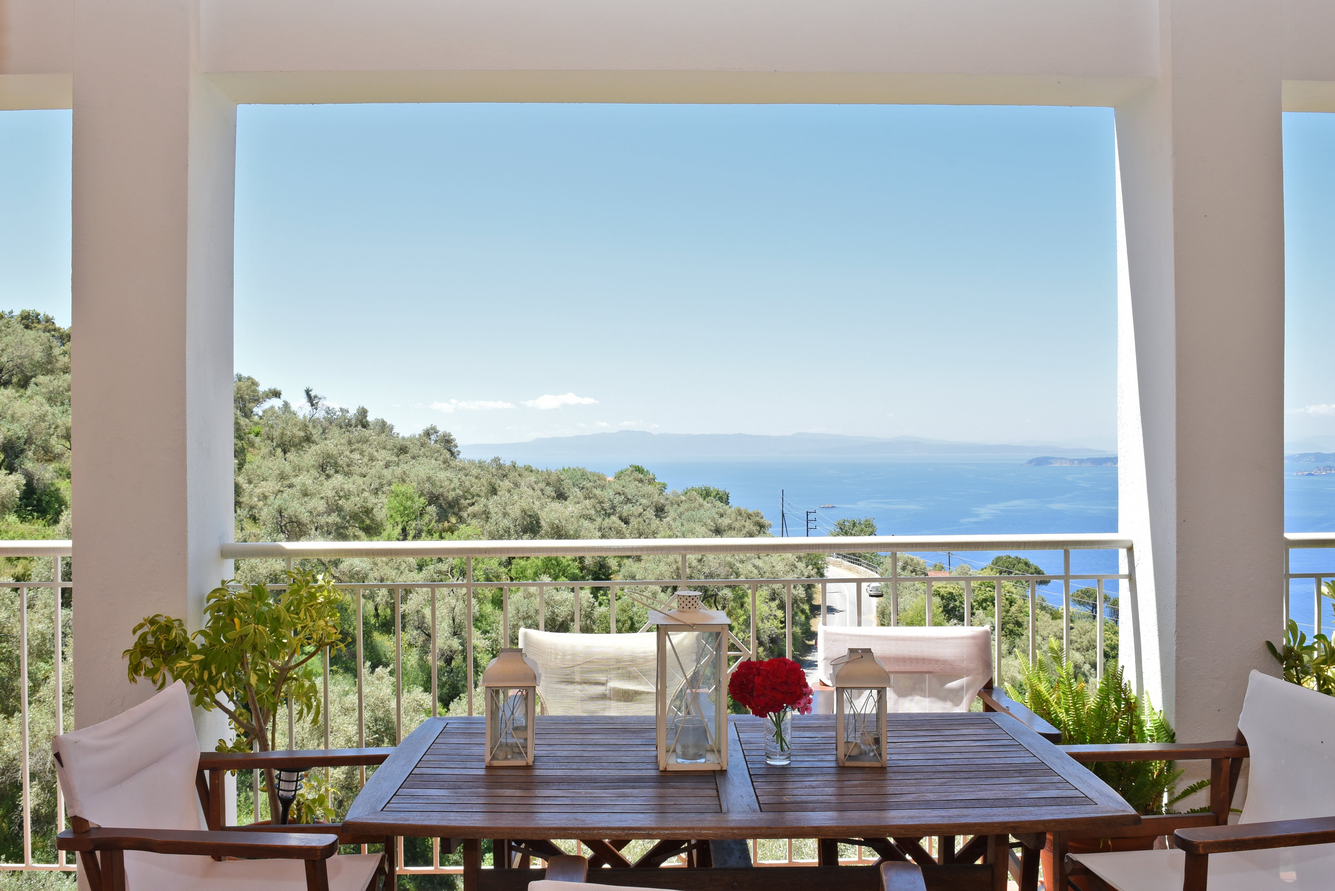
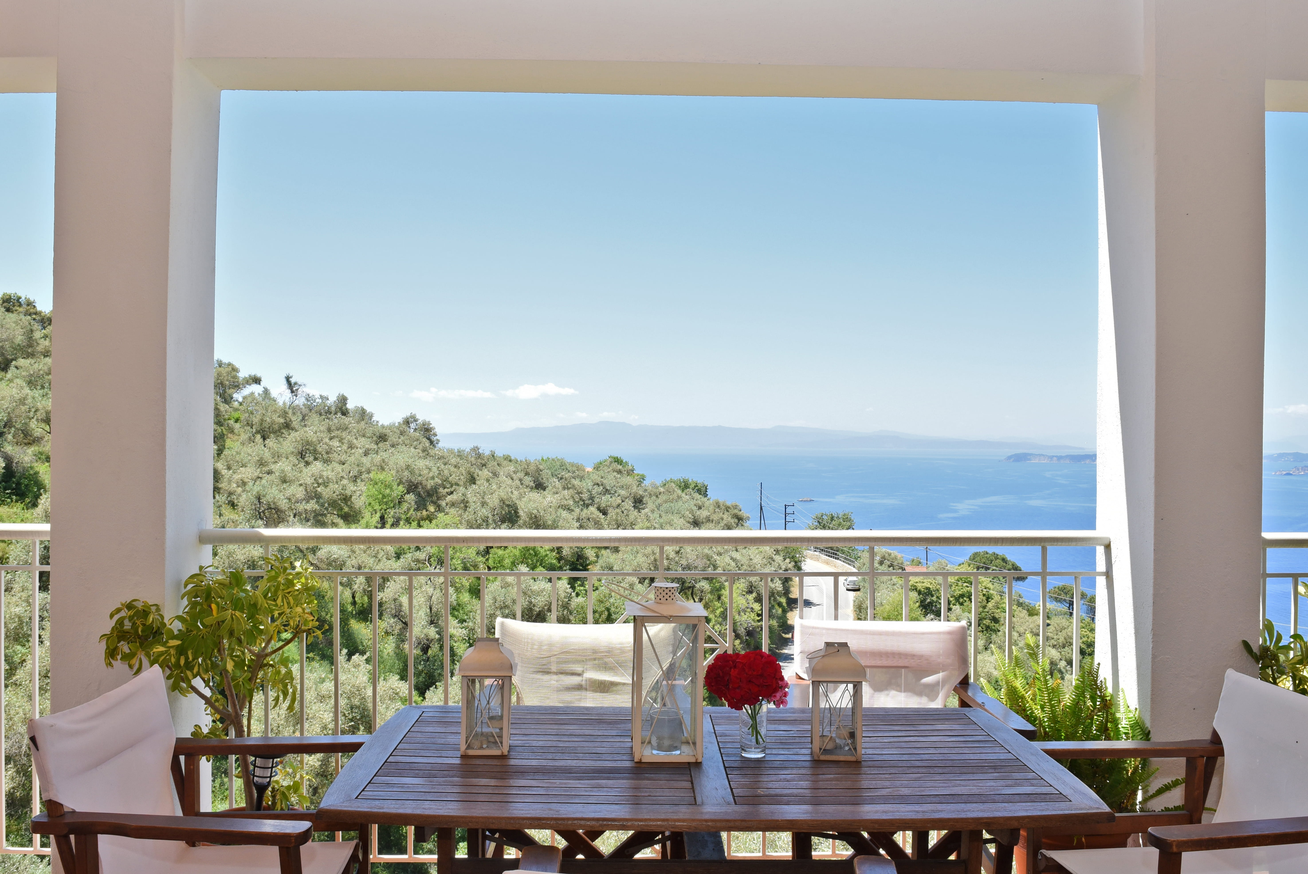
fixes

diff --git a/css/style.min.css b/css/style.min.css
@@ -1,1 +1,1 @@
-.body {margin: 0;font-family: sans-serif;}.navbar {top: 0;width: 100%;padding: 1vh 0vw;background-color: #2d3e50;box-shadow: 0px 0px 2px 1px rgba(0,0,0,0.3);position: sticky;z-index: 3;}.navMoreButLi {float: right;padding: 0px 54px;}.navMoreButI {color: #f5f5f5;}.navbar li {display: inline;}.navbarLi {padding: 14px 18px;}.navLogo {text-decoration: none;color: #f5f5f5;font-size: 20px;font-weight: 400;}.navTextMd {text-decoration: none;color: #d0d0d0;}.navDivSm {padding: 14px;}.navTextSm {text-decoration: none;color: #d0d0d0;padding-left: 40px;}.conImg {height: 90vh;background-image: url("../img/main.jpg");background-attachment: fixed !important;background-position: center;background-repeat: no-repeat;background-size: cover;}.mainLogo {left: 0;right: 0;bottom: 0;top: 0;height: 50%;width: 50%;margin: auto;position: absolute;text-align: center;position: fixed;z-index: 1;}.boxLogo {background-color: #ffffffb0;color: #0075c3;font-weight: 700;font-size: calc(10px + 2.5vw);;border: 3px solid #fff;border-radius: 5px;padding: 5vh 2vw;}.secTextLogo {color: #ffffff;opacity: 0.8;font-weight: bold;font-size: 16px;padding: 4vh 0;text-shadow: 1px 1px 2px black, 0 0 1em #0075c3, 0 0 0.2em white;}.buttonLogo {color: #0075c3;background: #fff;border-radius: 5px;font-size: 120%;padding: 1.2vh 1vw;width: 25%;cursor: pointer;margin: auto;}.container {z-index: 2;position: relative;text-align: center;padding: 5vh 3vw;}.conWhite {background-color: white;}.conBlue {background-color: #2d3e50;}.conTitle {font-weight: 400;letter-spacing: .1em;}.whTitle {color: #34495e;}.blTitle {color: white;}.whText {color:#6a7171;line-height: 1.7em;}.blText {color: #d0d0d0;}.chip {display: inline-block;padding: 18px 25px;margin: 4px;font-size: 16px;border-radius: 25px;background-color: #f1f1f1;color: #4b5252;}.whSubTitle {color:#0075c3;}.showMoreSerBut {color: #0077c5;text-decoration: underline;cursor: pointer;}.serBox {text-align: left;}.slides {display: none;}.slides > img {position: relative;width: 100%;height: auto;top: 50%;transform: translateY(-50%);object-fit: contain;transition: .4s;}img {vertical-align: middle;}.imagesTab > .main {position: relative;margin: auto;height: calc(80vh - 70px);background-color: #2d3e50;}.imagesTab > .main > .arrow_left, .imagesTab > .main > .arrow_right {position: absolute;display: block;top: 50%;transform: translateY(-50%);padding: 8px;background-color: rgba(0, 0, 0, 0.8);color: rgb(180, 180, 180);font-size: 2em;cursor: pointer;transition: 0.4s;z-index: 3;}.imagesTab > .main > .arrow_left:hover, .imagesTab > .main > .arrow_right:hover {background-color: rgba(0, 0, 0, 0.9);color: rgb(220, 220, 220);}.imagesTab > .main > .arrow_left {left: 0;border-radius: 0 3px 3px 0;}.imagesTab > .main > .arrow_right {right: 0;border-radius: 3px 0 0 3px;}.imagesTab > .main > .img {width: 100%;height: 100%;}.imagesTab > .main > .img > .real_img {width: 100%;height: 100%;text-align: center;z-index: 2;}.imagesTab > .main > .img > .real_img img {position: relative;width: 100%;height: auto;max-height: 100%;top: 50%;transform: translateY(-50%);object-fit: contain;transition: 0.4s;}.imagesTab > .main > .img > .description {position: absolute;left: 50%;transform: translateX(-50%);bottom: 0;width: 100%;font-size: 1.15em;text-align: center;background-color: rgba(40, 40, 40, 0.75);transition: 0.2s;}.imagesTab > .main > .img > .description.titleOn {padding: 8px 0;}.mapTab > .map {margin: auto;height: calc(80vh - 70px);}.mapTab > .map > iframe {width: 100%;height: 100%;}.contactTitle {letter-spacing: 1px;font-weight: normal;}.contactText {font-weight:bold;color:#34495e;font-size: 19px;}.footer {z-index: 2;position: relative;text-align: center;padding: 1vh 0vw;color: #d0d0d0;font-size: 15px;line-height: 30px;}.creator {color: #d0d0d0;}.button {cursor: pointer;}.navMoreButLi {display: none !important;}.navButSm {display: none;}@media (max-width: 1000px) {.navBut {display: none;}.navMoreButLi {display: block !important;}.mainLogo {width: 90%;}.buttonLogo {width: 35%;}}
+.body {margin: 0;font-family: sans-serif;}.navbar {top: 0;width: 100%;padding: 1vh 0vw;background-color: #2d3e50;box-shadow: 0px 0px 2px 1px rgba(0,0,0,0.3);position: sticky;z-index: 3;}.navMoreButLi {float: right;padding: 0px 54px;}.navMoreButI {color: #f5f5f5;}.navbar li {display: inline;}.navbarLi {padding: 14px 18px;}.navLogo {text-decoration: none;color: #f5f5f5;font-size: 20px;font-weight: 400;}.navTextMd {text-decoration: none;color: #d0d0d0;}.navDivSm {padding: 14px;}.navTextSm {text-decoration: none;color: #d0d0d0;padding-left: 40px;}.conImg {height: 90vh;background-image: url("../img/main.jpg");background-attachment: fixed !important;background-position: bottom;background-repeat: no-repeat;background-size: cover;}.mainLogo {left: 0;right: 0;bottom: 0;top: 0;height: 50%;width: 50%;margin: auto;position: absolute;text-align: center;position: fixed;z-index: 1;}.boxLogo {background-color: #ffffffb0;color: #0075c3;font-weight: 700;font-size: calc(10px + 2.5vw);;border: 3px solid #fff;border-radius: 5px;padding: 5vh 2vw;}.secTextLogo {color: #ffffff;opacity: 0.8;font-weight: bold;font-size: 16px;padding: 4vh 0;text-shadow: 1px 1px 2px black, 0 0 1em #0075c3, 0 0 0.2em white;}.buttonLogo {color: #0075c3;background: #fff;border-radius: 5px;font-size: 120%;padding: 1.2vh 1vw;width: 25%;cursor: pointer;margin: auto;}.container {z-index: 2;position: relative;text-align: center;padding: 5vh 3vw;}.conWhite {background-color: white;}.conBlue {background-color: #2d3e50;}.conTitle {font-weight: 400;letter-spacing: .1em;}.whTitle {color: #34495e;}.blTitle {color: white;}.whText {color:#6a7171;line-height: 1.7em;}.blText {color: #d0d0d0;}.chip {display: inline-block;padding: 18px 25px;margin: 4px;font-size: 16px;border-radius: 25px;background-color: #f1f1f1;color: #4b5252;}.whSubTitle {color:#0075c3;}.showMoreSerBut {color: #0077c5;text-decoration: underline;cursor: pointer;}.serBox {text-align: left;}.slides {display: none;}.slides > img {position: relative;width: 100%;height: auto;top: 50%;transform: translateY(-50%);object-fit: contain;transition: .4s;}img {vertical-align: middle;}.imagesTab > .main {position: relative;margin: auto;height: calc(80vh - 70px);background-color: #2d3e50;}.imagesTab > .main > .arrow_left, .imagesTab > .main > .arrow_right {position: absolute;display: block;top: 50%;transform: translateY(-50%);padding: 8px;background-color: rgba(0, 0, 0, 0.8);color: rgba(255, 255, 255, 0.8);font-size: 2em;cursor: pointer;transition: 0.4s;z-index: 3;}.imagesTab > .main > .arrow_left:hover, .imagesTab > .main > .arrow_right:hover {background-color: rgba(0, 0, 0, 0.9);color: rgba(255, 255, 255, 1.0);}.imagesTab > .main > .arrow_left {left: 0;border-radius: 0 3px 3px 0;}.imagesTab > .main > .arrow_right {right: 0;border-radius: 3px 0 0 3px;}.imagesTab > .main > .img {width: 100%;height: 100%;}.imagesTab > .main > .img > .real_img {width: 100%;height: 100%;text-align: center;z-index: 2;}.imagesTab > .main > .img > .real_img img {position: relative;width: 100%;height: auto;max-height: 100%;top: 50%;transform: translateY(-50%);object-fit: contain;transition: 0.4s;}.imagesTab > .main > .img > .description {position: absolute;left: 50%;transform: translateX(-50%);bottom: 0;width: 100%;font-size: 1.15em;text-align: center;background-color: rgba(40, 40, 40, 0.75);transition: 0.2s;}.imagesTab > .main > .img > .description.titleOn {padding: 8px 0;}.mapTab > .map {margin: auto;height: calc(80vh - 70px);}.mapTab > .map > iframe {width: 100%;height: 100%;}.contactTitle {letter-spacing: 1px;font-weight: normal;}.contactText {font-weight:bold;color:#34495e;font-size: 19px;}.footer {z-index: 2;position: relative;text-align: center;padding: 1vh 0vw;color: #d0d0d0;font-size: 15px;line-height: 30px;}.creator {color: #d0d0d0;}.button {cursor: pointer;}.navMoreButLi {display: none !important;}.navButSm {display: none;}@media (max-width: 1000px) {.navBut {display: none;}.navMoreButLi {display: block !important;}.mainLogo {width: 90%;}.buttonLogo {width: 35%;}}

diff --git a/js/main.min.js b/js/main.min.js
@@ -1,1 +1,1 @@
-function resizeObjects(){$(".conImg").css("height",$(window).height()-$(".navbar").outerHeight())}$(document).ready((function(){resizeObjects(),imageSliderGoTo(imageSliderIndex)})),$(window).resize(resizeObjects),$("#buttonFindMore").click((function(){$("html, body").stop(!0,!1).animate({scrollTop:$("#services").offset().top-$("#navbar").height()},1e3)})),$("#buttonLogo").stop(!0,!1).click((function(){$("html, body").stop(!0,!1).animate({scrollTop:$("#conImg").offset().top},1e3)})),$("#buttonServices, #buttonServicesSm").click((function(){$("html, body").stop(!0,!1).animate({scrollTop:$("#services").offset().top-$("#navbar").height()},1e3)})),$("#buttonDescription, #buttonDescriptionSm").click((function(){$("html, body").stop(!0,!1).animate({scrollTop:$("#description").offset().top-$("#navbar").height()},1e3)})),$("#buttonImages, #buttonImagesSm").click((function(){$("html, body").stop(!0,!1).animate({scrollTop:$("#images").offset().top-$("#navbar").height()},1e3)})),$("#buttonMap, #buttonMapSm").click((function(){$("html, body").stop(!0,!1).animate({scrollTop:$("#map").offset().top-$("#navbar").height()},1e3)})),$("#buttonContact, #buttonContactSm").click((function(){$("html, body").stop(!0,!1).animate({scrollTop:$("#contact").offset().top-$("#navbar").height()},1e3)})),$("#servicesMoreButton").click((function(){var o=$(this),e=$("#servicesToHide"),t=o.text();e.toggle(1e3),t="Show More"===t?"Show Less":"Show More",o.text(t)})),$("#descriptionMoreButton").click((function(){var o=$(this),e=$("#descriptionToHide"),t=o.text();e.toggle(1e3),t="Show More"===t?"Show Less":"Show More",o.text(t)}));var navbarIsOpen=!1;function openNavBar(){$(".navButSm").toggle(1e3)}var maxWidth=window.matchMedia("(max-width: 1000px)");function myFunction(o){o.matches||$(".navButSm").hide()}myFunction(maxWidth),maxWidth.addListener(myFunction);let imageSliderIndex=0,imageSliderData={images:["img/HousePhotos/house1.jpg","img/HousePhotos/house2.jpg","img/HousePhotos/house3.jpg","img/HousePhotos/house4.jpg","img/HousePhotos/house5.jpg","img/HousePhotos/house6.jpg","img/HousePhotos/house7.jpg","img/HousePhotos/house8.jpg","img/HousePhotos/house9.jpg","img/HousePhotos/house10.jpg","img/HousePhotos/house11.jpg","img/HousePhotos/house12.jpg","img/HousePhotos/house13.jpg","img/HousePhotos/house14.jpg","img/HousePhotos/house15.jpg","img/HousePhotos/house16.jpg","img/HousePhotos/house17.jpg","img/HousePhotos/house18.jpg","img/HousePhotos/house19.jpg","img/HousePhotos/house20.jpg","img/HousePhotos/house21.jpg","img/HousePhotos/house22.jpg","img/HousePhotos/house23.jpg","img/HousePhotos/house24.jpg","img/HousePhotos/house25.jpg","img/HousePhotos/house26.jpg"]};function imageSliderAdd(o){imageSliderIndex+=o,imageSliderIndex>imageSliderData.images.length-1?imageSliderIndex%=imageSliderData.images.length:imageSliderIndex<0&&(imageSliderIndex=Math.abs(imageSliderIndex+imageSliderData.images.length)%imageSliderData.images.length),imageSliderGoTo(imageSliderIndex)}function imageSliderGoTo(o){o>imageSliderData.images.length?o=imageSliderData.images.length:o<0&&(o=0),imageSliderIndex=o;let e=$("#imagesTab_img");e&&e.stop(!0,!1).animate({opacity:-1},200,(function(){e.attr("src",imageSliderData.images[o]),e.stop(!0,!1).animate({opacity:1},200)}))}
+function resizeObjects(){$(".conImg").css("height",$(window).height()-$(".navbar").outerHeight())}function openNavBar(o=!1){!0===o?$(".navButSm").stop(!0,!1).hide(500):$(".navButSm").stop(!0,!1).toggle(500)}$(document).ready((function(){resizeObjects(),imageSliderGoTo(imageSliderIndex)})),$(window).resize(resizeObjects),$("#buttonFindMore").click((function(){openNavBar(!0),$("html, body").stop(!0,!1).animate({scrollTop:$("#services").offset().top-$("#navbar").height()},500)})),$("#buttonLogo").stop(!0,!1).click((function(){openNavBar(!0),$("html, body").stop(!0,!1).animate({scrollTop:$("#conImg").offset().top},500)})),$("#buttonServices, #buttonServicesSm").click((function(){openNavBar(!0),$("html, body").stop(!0,!1).animate({scrollTop:$("#services").offset().top-$("#navbar").height()},500)})),$("#buttonDescription, #buttonDescriptionSm").click((function(){openNavBar(!0),$("html, body").stop(!0,!1).animate({scrollTop:$("#description").offset().top-$("#navbar").height()},500)})),$("#buttonImages, #buttonImagesSm").click((function(){openNavBar(!0),$("html, body").stop(!0,!1).animate({scrollTop:$("#images").offset().top-$("#navbar").height()},500)})),$("#buttonMap, #buttonMapSm").click((function(){openNavBar(!0),$("html, body").stop(!0,!1).animate({scrollTop:$("#map").offset().top-$("#navbar").height()},500)})),$("#buttonContact, #buttonContactSm").click((function(){openNavBar(!0),$("html, body").stop(!0,!1).animate({scrollTop:$("#contact").offset().top-$("#navbar").height()},500)})),$("#servicesMoreButton").click((function(){let o=$(this),e=$("#servicesToHide"),t=o.text();e.toggle(500),t="Show More"===t?"Show Less":"Show More",o.text(t)})),$("#descriptionMoreButton").click((function(){let o=$(this),e=$("#descriptionToHide"),t=o.text();e.toggle(500),t="Show More"===t?"Show Less":"Show More",o.text(t)}));let maxWidth=window.matchMedia("(max-width: 1000px)");function myFunction(o){o.matches||$(".navButSm").hide()}myFunction(maxWidth),maxWidth.addListener(myFunction);let imageSliderIndex=0,imageSliderData={images:["img/HousePhotos/house1.jpg","img/HousePhotos/house2.jpg","img/HousePhotos/house3.jpg","img/HousePhotos/house4.jpg","img/HousePhotos/house5.jpg","img/HousePhotos/house6.jpg","img/HousePhotos/house7.jpg","img/HousePhotos/house8.jpg","img/HousePhotos/house9.jpg","img/HousePhotos/house10.jpg","img/HousePhotos/house11.jpg","img/HousePhotos/house12.jpg","img/HousePhotos/house13.jpg","img/HousePhotos/house14.jpg","img/HousePhotos/house15.jpg","img/HousePhotos/house16.jpg","img/HousePhotos/house17.jpg","img/HousePhotos/house18.jpg","img/HousePhotos/house19.jpg","img/HousePhotos/house20.jpg","img/HousePhotos/house21.jpg","img/HousePhotos/house22.jpg","img/HousePhotos/house23.jpg","img/HousePhotos/house24.jpg","img/HousePhotos/house25.jpg","img/HousePhotos/house26.jpg"]};function imageSliderAdd(o){imageSliderIndex+=o,imageSliderIndex>imageSliderData.images.length-1?imageSliderIndex%=imageSliderData.images.length:imageSliderIndex<0&&(imageSliderIndex=Math.abs(imageSliderIndex+imageSliderData.images.length)%imageSliderData.images.length),imageSliderGoTo(imageSliderIndex)}function imageSliderGoTo(o){o>imageSliderData.images.length?o=imageSliderData.images.length:o<0&&(o=0),imageSliderIndex=o;let e=$("#imagesTab_img");e&&e.stop(!0,!1).animate({opacity:-1},200,(function(){e.attr("src",imageSliderData.images[o]),e.stop(!0,!1).animate({opacity:1},200)}))}

diff --git a/js/main.js b/js/main.js
@@ -10,53 +10,67 @@ function resizeObjects() {
 }
 
 $("#buttonFindMore").click(function() {
+    openNavBar(true);
+    
     $('html, body').stop(true, false).animate({
         scrollTop: $("#services").offset().top-$("#navbar").height()
-    }, 1000);
+    }, 500);
 });
 
 $("#buttonLogo").stop(true, false).click(function() {
+    openNavBar(true);
+    
     $('html, body').stop(true, false).animate({
         scrollTop: $("#conImg").offset().top
-    }, 1000);
+    }, 500);
 });
 
 $("#buttonServices, #buttonServicesSm").click(function() {
+    openNavBar(true);
+    
     $('html, body').stop(true, false).animate({
         scrollTop: $("#services").offset().top-$("#navbar").height()
-    }, 1000);
+    }, 500);
 });
 
 $("#buttonDescription, #buttonDescriptionSm").click(function() {
+    openNavBar(true);
+    
     $('html, body').stop(true, false).animate({
         scrollTop: $("#description").offset().top-$("#navbar").height()
-    }, 1000);
+    }, 500);
 });
 
 $("#buttonImages, #buttonImagesSm").click(function() {
+    openNavBar(true);
+    
     $('html, body').stop(true, false).animate({
         scrollTop: $("#images").offset().top-$("#navbar").height()
-    }, 1000);
+    }, 500);
 });
 
 $("#buttonMap, #buttonMapSm").click(function() {
+    openNavBar(true);
+    
     $('html, body').stop(true, false).animate({
         scrollTop: $("#map").offset().top-$("#navbar").height()
-    }, 1000);
+    }, 500);
 });
 
 $("#buttonContact, #buttonContactSm").click(function() {
+    openNavBar(true);
+    
     $('html, body').stop(true, false).animate({
         scrollTop: $("#contact").offset().top-$("#navbar").height()
-    }, 1000);
+    }, 500);
 });
 
 $("#servicesMoreButton").click(function() {
-    var $this = $(this); 
-    var $content = $("#servicesToHide");
-    var linkText = $this.text();
+    let $this = $(this); 
+    let $content = $("#servicesToHide");
+    let linkText = $this.text();
 
-    $content.toggle(1000);
+    $content.toggle(500);
 
     if(linkText === "Show More"){
         linkText = "Show Less";
@@ -68,11 +82,11 @@ $("#servicesMoreButton").click(function() {
 });
 
 $("#descriptionMoreButton").click(function() {
-    var $this = $(this); 
-    var $content = $("#descriptionToHide");
-    var linkText = $this.text();
+    let $this = $(this); 
+    let $content = $("#descriptionToHide");
+    let linkText = $this.text();
 
-    $content.toggle(1000);
+    $content.toggle(500);
 
     if(linkText === "Show More"){
         linkText = "Show Less";
@@ -83,12 +97,14 @@ $("#descriptionMoreButton").click(function() {
     $this.text(linkText);
 });
 
-var navbarIsOpen = false;
-function openNavBar() {
-    $(".navButSm").toggle(1000);
+function openNavBar(forceClose = false) {
+    if (forceClose === true)
+        $(".navButSm").stop(true, false).hide(500);
+    else
+        $(".navButSm").stop(true, false).toggle(500);
 }
 
-var maxWidth = window.matchMedia("(max-width: 1000px)");
+let maxWidth = window.matchMedia("(max-width: 1000px)");
 myFunction(maxWidth);
 maxWidth.addListener(myFunction);
 

diff --git a/css/style.css b/css/style.css
@@ -62,7 +62,7 @@
 
     background-image: url("../img/main.jpg");
     background-attachment: fixed !important;
-    background-position: center;
+    background-position: bottom;
     background-repeat: no-repeat;
     background-size: cover;
 }
